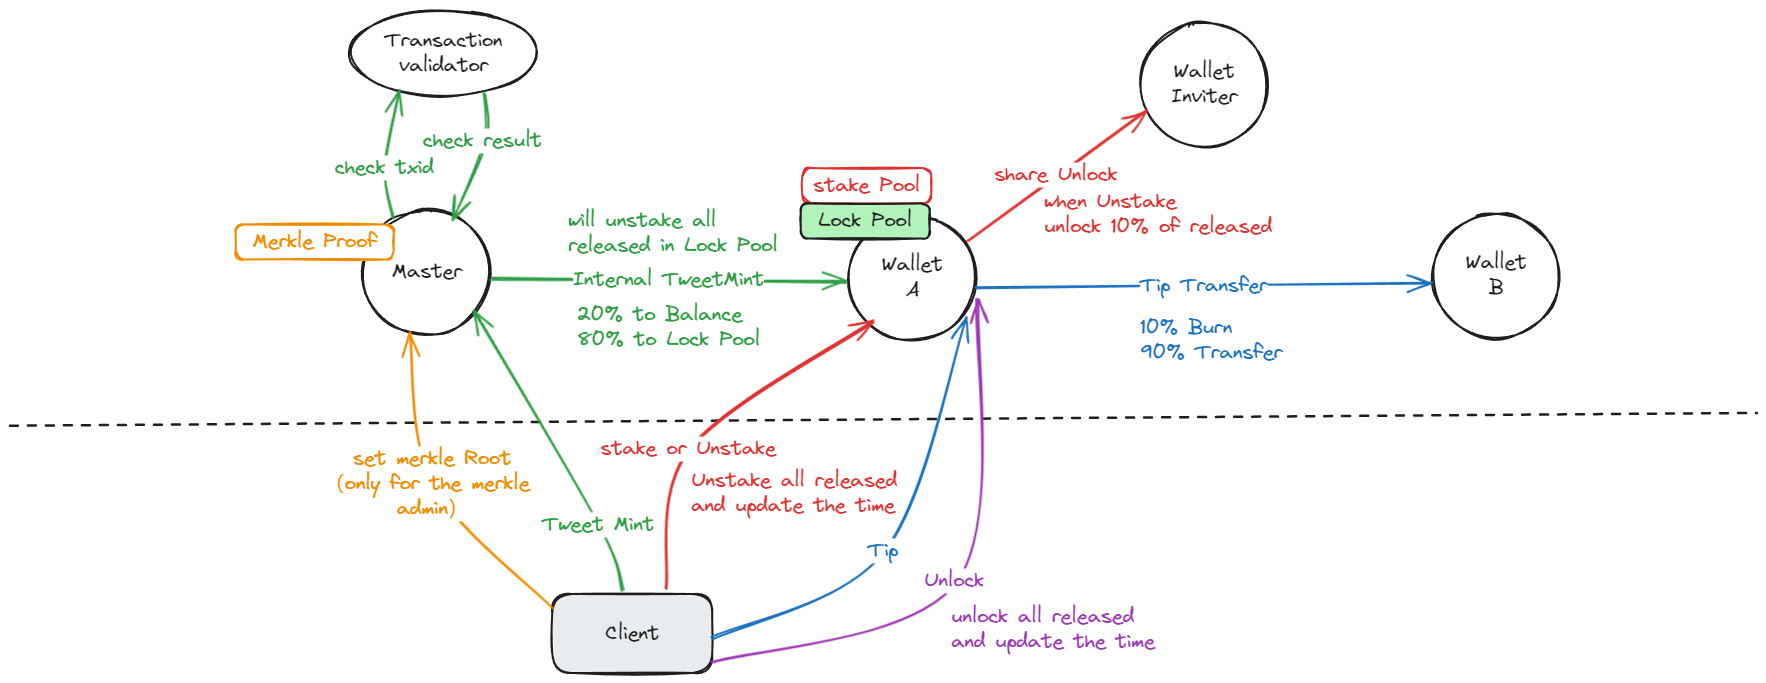
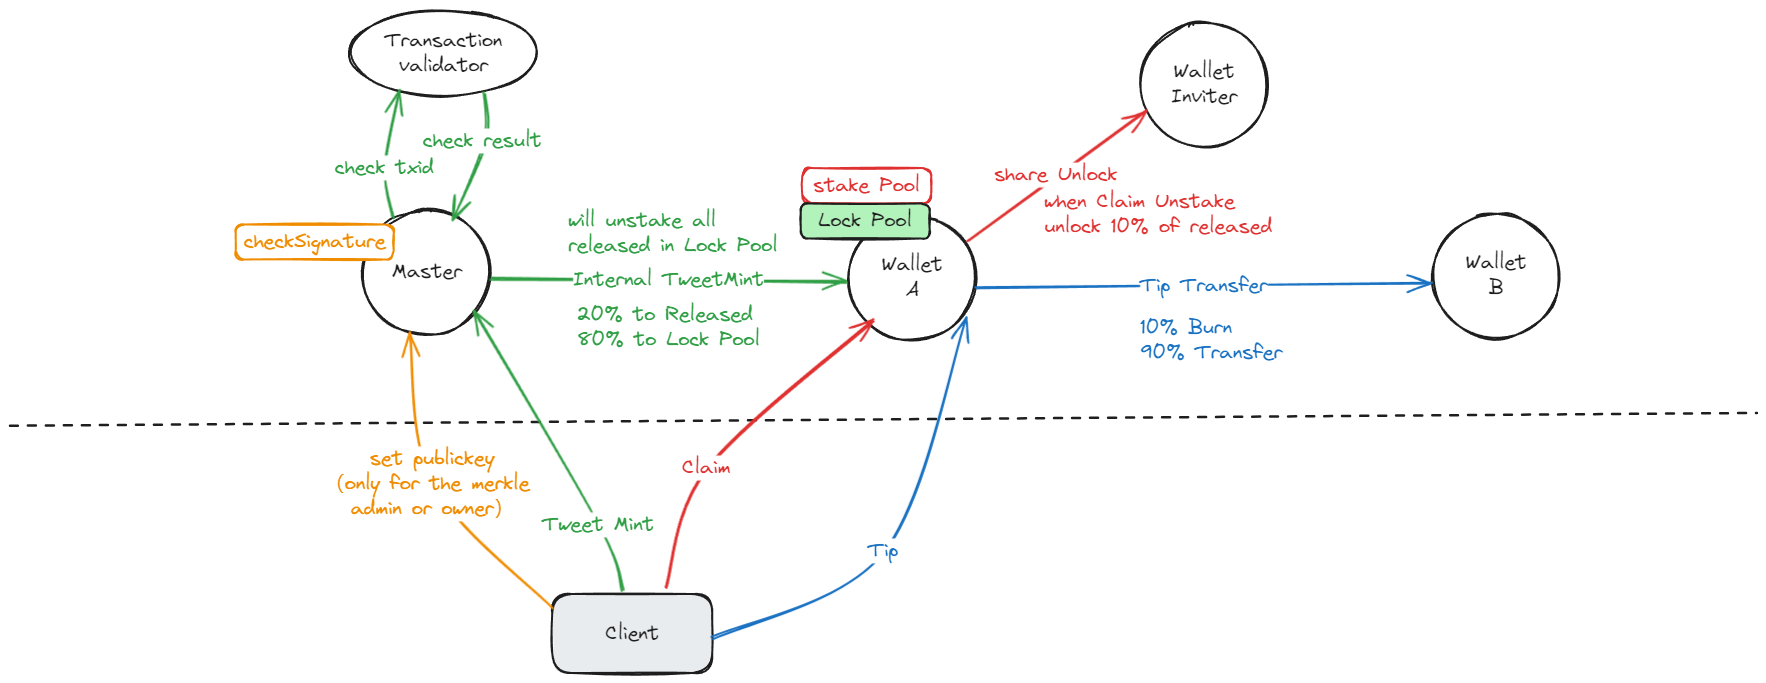
feat: pub main net

diff --git a/scripts/writeTweetFi.ts b/scripts/writeTweetFi.ts
@@ -48,17 +48,17 @@ export async function run(provider: NetworkProvider, args: string[]) {
 
   let signatureCell = beginCell().storeBuffer(signature).endCell();
 
-  await tf.send(
-    provider.sender(),
-    { value: toNano('0.2') },
-    {
-      $$type: "TweetMint",
-      index: 0n,
-      to: Address.parse("UQD75GcfTU8JOAGgDQeTiGJ69qct3VAW4_FpclC1Y37FSiAn"),
-      amount: 10000000000000n,
-      signature: signatureCell
-    }
-  )
+  // await tf.send(
+  //   provider.sender(),
+  //   { value: toNano('0.2') },
+  //   {
+  //     $$type: "TweetMint",
+  //     index: 0n,
+  //     to: Address.parse("UQD75GcfTU8JOAGgDQeTiGJ69qct3VAW4_FpclC1Y37FSiAn"),
+  //     amount: 10000000000000n,
+  //     signature: signatureCell
+  //   }
+  // )
 
 
   // await tf.send(
@@ -69,6 +69,13 @@ export async function run(provider: NetworkProvider, args: string[]) {
   //     value: Address.parse("UQD75GcfTU8JOAGgDQeTiGJ69qct3VAW4_FpclC1Y37FSiAn")
   //   }
   // )
+
+  // await tf.send(
+  //   provider.sender(),
+  //   { value: toNano('0.02') },
+  //   "withdraw safe"
+  // )
+
 
   // const user_wallet_address = await tf.getGetWalletAddress(Address.parse("UQD75GcfTU8JOAGgDQeTiGJ69qct3VAW4_FpclC1Y37FSiAn"))
   // const user_wallet = provider.open(TweetFiWallet.fromAddress(user_wallet_address));

diff --git a/tests/TweetFi.spec.ts b/tests/TweetFi.spec.ts
@@ -117,14 +117,14 @@ describe('TweetFi', () => {
 
         // test power
 
-        const amount = await tweetFi.getTestpow(toNano("10"), 300n);
+        // const amount = await tweetFi.getTestpow(toNano("10"), 300n);
 
-        const amount2 = await tweetFi.getTestpow2(toNano("10"), 300n);
+        // const amount2 = await tweetFi.getTestpow2(toNano("10"), 300n);
 
-        console.log("amount1:", amount/BigInt(10**9))
-        console.log("amount2:", amount2/BigInt(10**9))
+        // console.log("amount1:", amount/BigInt(10**9))
+        // console.log("amount2:", amount2/BigInt(10**9))
 
-        console.log("amount3:", Number(toNano("10"))*0.99**300/10**9)
+        // console.log("amount3:", Number(toNano("10"))*0.99**300/10**9)
         
 
 

diff --git a/scripts/readContract.ts b/scripts/readContract.ts
@@ -18,12 +18,12 @@ export async function run(provider: NetworkProvider, args: string[]) {
 
 
    
-    const amount = await tf.getTestpow(toNano("100000"), 5000n)
-    console.log("amount:", amount)
+    // const amount = await tf.getTestpow(toNano("100000"), 5000n)
+    // console.log("amount:", amount)
 
 
-    const amount2 = await tf.getTestpow2(toNano("100000"), 1200n)
-    console.log("amount2:", amount2)
+    // const amount2 = await tf.getTestpow2(toNano("100000"), 1200n)
+    // console.log("amount2:", amount2)
 
 
     // const user_wallet_address = await tf.getGetWalletAddress(Address.parse("0QCkfhhHphlGejkE9Pkq4B17D2MovSRi59NuFOgdARYxzLwL"))

diff --git a/scripts/deployTweetFi.ts b/scripts/deployTweetFi.ts
@@ -10,6 +10,8 @@ export async function run(provider: NetworkProvider) {
 
         const mnemonic = await mnemonicNew();
 
+        
+
         console.log("mnemonic:", mnemonic)
 
         const keyPair = await mnemonicToWalletKey(mnemonic);

diff --git a/README.md b/README.md
@@ -44,13 +44,19 @@ TweetFi is an innovative social media mining platform that aims to provide socia
 - v0.0.8 修复gas超标bug，将默克尔证明改为交易签名的方式
     [kQDlOAuiTdQLpDGKJu3JPZ9cwPwSccYTakoxjoTJVlonNeim](https://testnet.tonviewer.com/kQDlOAuiTdQLpDGKJu3JPZ9cwPwSccYTakoxjoTJVlonNeim)
 
+- v0.0.9 优化按日释放的gas消耗
+    [kQBIbGLBLWvM5cbzH9E1QGJ0PiPZRBgG6EHsp8MUou44y2Md](https://testnet.tonviewer.com/kQBIbGLBLWvM5cbzH9E1QGJ0PiPZRBgG6EHsp8MUou44y2Md)
+
 
 - main net
     [EQD2YsNVX3AKVnsUmTGZcirABMGU0D4iX4hk8xxb-687wbBp](https://tonviewer.com/EQD2YsNVX3AKVnsUmTGZcirABMGU0D4iX4hk8xxb-687wbBp)
 
 
 - main net 修复gas超标错误
-    [EQA3CSgesvtCjXud0xhNIkaPoN5ijvsAiW43352BRr9-ELLM](https://tonviewer.com/UQA3CSgesvtCjXud0xhNIkaPoN5ijvsAiW43352BRr9-EO8J)
+    [EQBhLbz0AxdilLMfi9Mw8qhFBcYYHiLCxDN07G6oHfFFHrXl](https://tonviewer.com/EQBhLbz0AxdilLMfi9Mw8qhFBcYYHiLCxDN07G6oHfFFHrXl)
+
+
+- main net 全面优化合约
 
 
 
